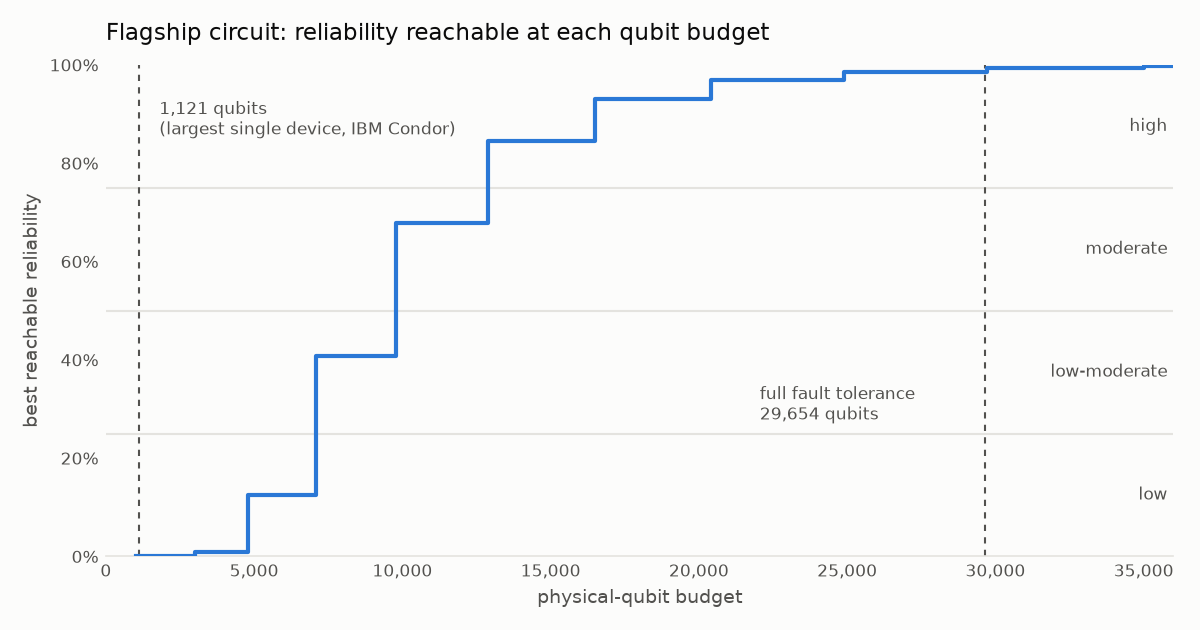
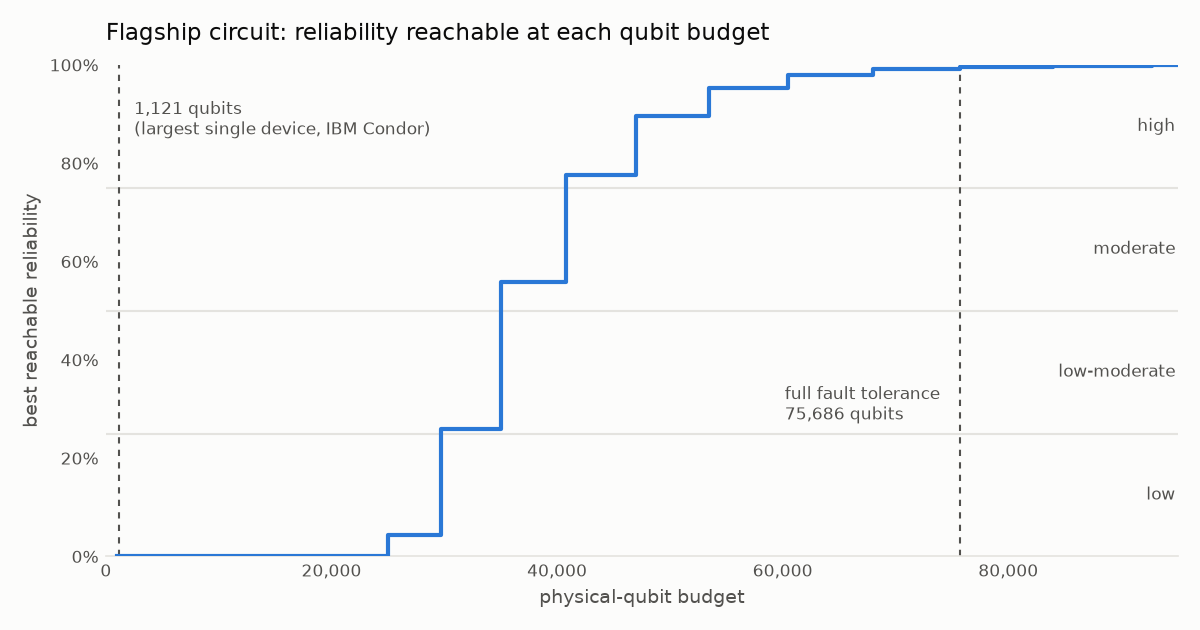
docs: update README, tutorial and chart to the corrected resource model
The flagship circuit's numbers change with the corrected error model and
rotation synthesis: full fault tolerance needs 75,686 physical qubits
(d=37, ~56,000 T gates once the 1,008 rotations are synthesised), and
partial QEC reaches 56% reliability at ~35,000 qubits (d=25), about half
that cost, instead of 68% at ~9,700.

Regenerates docs/budget_staircase.png, re-executes the tutorial, and
updates README.md, README.es.md and docs/dissemination_kit.md. The paper
(paper/paper_en.tex) is not updated in this change.

diff --git a/examples/budget_staircase.py b/examples/budget_staircase.py
@@ -1,8 +1,9 @@
 """How much hardware does a circuit need before error correction pays off?
 
 Sweeps the physical-qubit budget for the paper's flagship circuit (16 logical
-qubits, T-count 3,930, p_2q = 0.32%) and plots the best reliability reachable
-at each budget. Proposition 3 of the paper guarantees this curve never goes down.
+qubits; 2,922 exact T gates plus 1,008 arbitrary-angle rotations, i.e. ~56,000
+T gates once the rotations are synthesised; p_2q = 0.32%) and plots the best
+reliability reachable at each budget. Proposition 3 of the paper guarantees this curve never goes down.
 
     python examples/budget_staircase.py            # writes docs/budget_staircase.png
 """
@@ -14,8 +15,13 @@ matplotlib.use("Agg")
 import matplotlib.pyplot as plt
 
 import qregime
+from qregime.resources import effective_tcount
 
-N_LOGICAL, TCOUNT, P_PHYS = 16, 3930, 0.0032
+N_LOGICAL, P_PHYS = 16, 0.0032
+# from qregime.profile("examples/circuits/shor_like_sequential.qasm")
+TCOUNT_EXACT, ROTATIONS = 2922, 1008
+TCOUNT, LOGICAL_BUDGET = effective_tcount(TCOUNT_EXACT, ROTATIONS, 1e-2)
+X_MAX = 95_000
 SURFACE, INK, INK_2, GRID, SERIES = "#fcfcfb", "#0b0b0b", "#52514e", "#e4e3df", "#2a78d6"
 
 
@@ -28,9 +34,10 @@ def sweep(budgets):
 
 
 def plot(path):
-    budgets = list(range(1_000, 36_001, 100))
+    budgets = list(range(1_000, X_MAX + 1, 250))
     rel = sweep(budgets)
-    full = qregime.estimate_ftqc(N_LOGICAL, TCOUNT, P_PHYS)["physicalQubits"]
+    full = qregime.estimate_ftqc(N_LOGICAL, TCOUNT, P_PHYS,
+                                 error_budget=LOGICAL_BUDGET)["physicalQubits"]
 
     fig, ax = plt.subplots(figsize=(8, 4.2), dpi=150)
     fig.patch.set_facecolor(SURFACE)
@@ -41,15 +48,15 @@ def plot(path):
 
     ax.axvline(1121, color=INK_2, lw=1, ls=(0, (3, 3)))
     ax.annotate("1,121 qubits\n(largest single device, IBM Condor)", xy=(1121, 0.93),
-                xytext=(1800, 0.93), color=INK_2, fontsize=8, va="top")
+                xytext=(2500, 0.93), color=INK_2, fontsize=8, va="top")
     ax.axvline(full, color=INK_2, lw=1, ls=(0, (3, 3)))
     ax.annotate(f"full fault tolerance\n{full:,} qubits", xy=(full, 0.35),
-                xytext=(full - 7600, 0.35), color=INK_2, fontsize=8, va="top")
+                xytext=(full - 15_500, 0.35), color=INK_2, fontsize=8, va="top")
     for label, y in (("low", 0.125), ("low-moderate", 0.375),
                      ("moderate", 0.625), ("high", 0.875)):
-        ax.text(35_800, y, label, color=INK_2, fontsize=8, ha="right", va="center")
+        ax.text(X_MAX - 200, y, label, color=INK_2, fontsize=8, ha="right", va="center")
 
-    ax.set_xlim(0, 36_000)
+    ax.set_xlim(0, X_MAX)
     ax.set_ylim(0, 1.0)
     ax.set_xlabel("physical-qubit budget", color=INK_2, fontsize=9)
     ax.set_ylabel("best reachable reliability", color=INK_2, fontsize=9)

diff --git a/docs/dissemination_kit.md b/docs/dissemination_kit.md
@@ -48,7 +48,7 @@ Early, thoughtful replies matter more than reach.
 > Before you run a quantum circuit, someone has to decide how errors will be
 > handled: mitigate them on raw qubits, correct them with a small code, or pay
 > for full fault tolerance. That choice is the difference between 16 physical
-> qubits and 30,000, and it is usually made by rule of thumb.
+> qubits and 75,000, and it is usually made by rule of thumb.
 >
 > I've open-sourced **qregime**, a tool that makes the decision explicit: give
 > it an OpenQASM circuit and a hardware profile, and it tells you which
@@ -58,8 +58,8 @@ Early, thoughtful replies matter more than reach.
 > would close it.
 >
 > A few things I learned building it:
-> - For one Shor-like circuit, partial error correction reaches 68% reliability
->   at ~9,700 physical qubits, a third of the cost of full fault tolerance.
+> - For one Shor-like circuit, partial error correction reaches 56% reliability
+>   at ~35,000 physical qubits, about half the cost of full fault tolerance.
 > - On 99.99%-fidelity hardware, the same circuit needs no error correction at all.
 > - ZX-calculus provably cannot reduce T-count on QAOA-style cost layers (a
 >   short proof is in the paper).
@@ -77,7 +77,7 @@ Early, thoughtful replies matter more than reach.
 > Antes de correr un circuito cuántico hay que decidir cómo manejar los
 > errores: mitigarlos sobre los qubits físicos, corregirlos con un código
 > pequeño, o pagar la tolerancia a fallas completa. Es la diferencia entre 16
-> qubits físicos y 30.000, y casi siempre se decide a ojo.
+> qubits físicos y 75.000, y casi siempre se decide a ojo.
 >
 > Liberé como código abierto **qregime**, una herramienta que vuelve explícita
 > esa decisión: le das un circuito OpenQASM y un perfil de hardware, y te dice
@@ -87,8 +87,8 @@ Early, thoughtful replies matter more than reach.
 > cuánto hardware haría falta para cerrarla.
 >
 > Algunas cosas que aprendí en el camino:
-> - Para un circuito tipo Shor, la corrección de errores parcial llega a 68% de
->   confiabilidad con ~9.700 qubits físicos: un tercio del costo de la
+> - Para un circuito tipo Shor, la corrección de errores parcial llega a 56% de
+>   confiabilidad con ~35.000 qubits físicos: cerca de la mitad del costo de la
 >   tolerancia a fallas completa.
 > - En hardware con 99,99% de fidelidad, el mismo circuito no necesita
 >   corrección de errores.
@@ -106,7 +106,7 @@ Early, thoughtful replies matter more than reach.
 ## Short thread (X / Bluesky / Mastodon)
 
 1. QEM, QEC or FTQC? The answer decides whether a circuit needs 16 physical
-   qubits or 30,000. I built an open tool that makes that decision explicit
+   qubits or 75,000. I built an open tool that makes that decision explicit
    and reproducible from a QASM file. [link + chart]
 2. It profiles the circuit, says which reductions are worth trying, estimates
    full fault-tolerance cost from its own Stim+PyMatching threshold fit, and
@@ -114,7 +114,7 @@ Early, thoughtful replies matter more than reach.
 3. When no regime works, it doesn't force an answer: it reports the gap, and
    the best reliability your qubit budget can buy (the staircase in the chart).
    A proof in the paper guarantees that curve never goes down.
-4. Partial QEC gets a Shor-like circuit to 68% reliability at 1/3 the cost of
+4. Partial QEC gets a Shor-like circuit to 56% reliability at ~1/2 the cost of
    full fault tolerance. On 99.99% hardware it needs no QEC at all.
 5. Negative results are in there too: no cheap structural predictor tells you
    whether ZX-calculus will help on a new circuit family. I retracted my own

diff --git a/README.md b/README.md
@@ -12,7 +12,7 @@
 Before you run a quantum circuit, someone has to decide how errors will be
 handled: **mitigate** them on raw physical qubits (QEM), **correct** them with a
 small code (partial QEC), or pay for **full fault tolerance** (FTQC). That choice
-decides whether you need 16 physical qubits or 30,000, and in practice it is
+decides whether you need 16 physical qubits or 75,000, and in practice it is
 usually made by rule of thumb.
 
 `qregime` makes it explicit. Give it an OpenQASM 2 circuit and a hardware
@@ -43,10 +43,10 @@ Techniques worth trying:
 
 Regime comparison:
   QEM           16 qubits   reliability 0.0%   (noisy_simulation (150 shots))
-  FTQC      29,654 qubits   fits budget: False
+  FTQC      75,686 qubits   fits budget: False   reliability 99.0%   T-count incl. rotation synthesis 56,346
 
 => Regime: GAP
-   QEM falls short by 50.0% reliability; FTQC overruns the budget by 28,533 qubits.
+   QEM falls short by 50.0% reliability; FTQC overruns the budget by 74,565 qubits.
    Best reachable within budget: d=3, reliability 0.0% (quartile 1, low).
 ```
 
@@ -56,8 +56,11 @@ take? Sweeping the budget answers that directly:
 
 ![Best reachable reliability vs. physical-qubit budget](docs/budget_staircase.png)
 
-Partial error correction reaches 68% reliability at ~9,700 physical qubits, about
-a third of the cost of full fault tolerance. On 99.99%-fidelity hardware the same
+Partial error correction reaches 56% reliability at ~35,000 physical qubits
+(d = 25) and 78% at ~41,000 (d = 27), about half the cost of full fault
+tolerance. The circuit's 1,008 arbitrary-angle rotations dominate that cost:
+each one is synthesised from ~50 T gates, so its 3,930 non-Clifford gates
+become ~56,000 T gates. On 99.99%-fidelity hardware the same
 circuit needs no error correction at all (see the [tutorial](tutorial/qregime_tutorial.ipynb)).
 
 ## Quickstart
@@ -94,7 +97,7 @@ rerun, not from a vendor service.
 | Surface-code threshold fitted from our own simulation: $p_{th} \approx 0.74\%$, consistent with the published ~1% | Stim + PyMatching, rotated surface code, `research/qec/` |
 | **Proposition 1 (proved):** ZX-calculus cannot reduce T-count when the non-Clifford content is one layer of diagonal $Z_aZ_b$ rotations (QAOA cost layers, Ising Trotter steps) | Proof in the paper; 0% measured reduction on 24/24 QAOA instances and on a circuit derived from IBM's 2023 utility experiment |
 | **Proposition 3 (proved):** the best reliability reachable under a budget can never decrease as the budget grows, so the sweep above is provably optimal | Proof in the paper; checked numerically in `tests/test_proposition3.py` |
-| Partial QEC reaches the same reliability bar at ~1/3 the qubits of full fault tolerance on the flagship circuit | 9,734 vs 29,654 physical qubits |
+| Partial QEC reaches the 50% reliability bar at ~46% of the qubits of full fault tolerance on the flagship circuit | 34,934 vs 75,686 physical qubits |
 | The technique recommender generalizes to circuits larger than it was calibrated on: 73.7% accuracy vs a 57.9% baseline on 19 unseen circuits of up to 32 qubits | `research/decision-layer/large_scale_*` |
 | Cheap enough to run before dispatch: profiling + recommendations take 0.06-1 s on most reference circuits, 11.6 s on the heaviest | after fixing three scaling bugs found by our own stress test (44 s before) |
 

diff --git a/README.es.md b/README.es.md
@@ -8,7 +8,7 @@ Antes de correr un circuito cuántico alguien tiene que decidir cómo se van a
 manejar los errores: **mitigarlos** sobre los qubits físicos (QEM),
 **corregirlos** con un código pequeño (QEC parcial), o pagar la **tolerancia a
 fallas completa** (FTQC). Esa decisión define si necesitas 16 qubits físicos o
-30.000, y en la práctica suele tomarse a ojo.
+75.000, y en la práctica suele tomarse a ojo.
 
 `qregime` la vuelve explícita. Le das un circuito OpenQASM 2 y un perfil de
 hardware, y te dice:
@@ -23,9 +23,11 @@ hardware, y te dice:
 
 ![Mejor confiabilidad alcanzable vs. presupuesto de qubits físicos](docs/budget_staircase.png)
 
-Para el circuito insignia del proyecto, la QEC parcial llega a 68% de
-confiabilidad con ~9.700 qubits físicos, un tercio del costo de la tolerancia a
-fallas completa. Y en hardware con 99,99% de fidelidad, el mismo circuito no
+Para el circuito insignia del proyecto, la QEC parcial llega a 56% de
+confiabilidad con ~35.000 qubits físicos (d = 25) y a 78% con ~41.000 (d = 27),
+cerca de la mitad del costo de la tolerancia a fallas completa (75.686). Ese
+costo lo dominan sus 1.008 rotaciones de ángulo arbitrario: cada una se
+sintetiza con ~50 compuertas T. Y en hardware con 99,99% de fidelidad, el mismo circuito no
 necesita corrección de errores en absoluto (ver el
 [tutorial](tutorial/qregime_tutorial.ipynb)).
 
